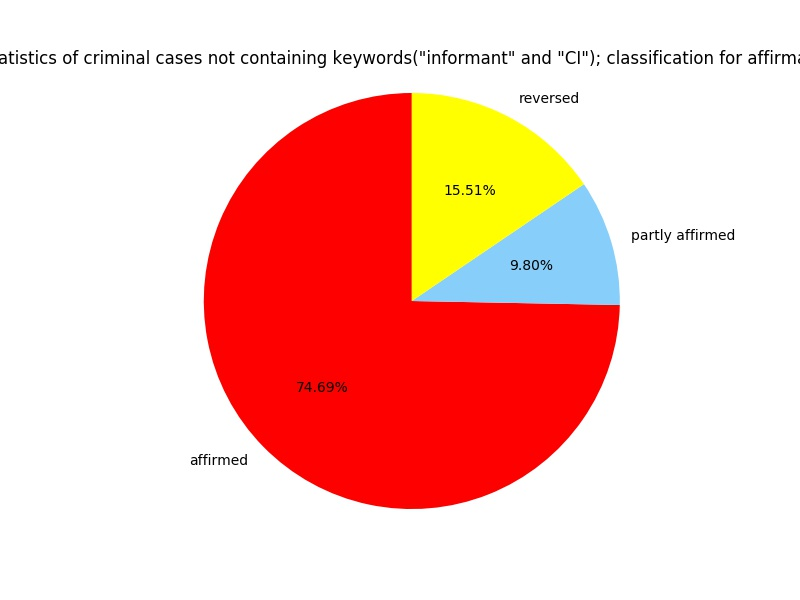
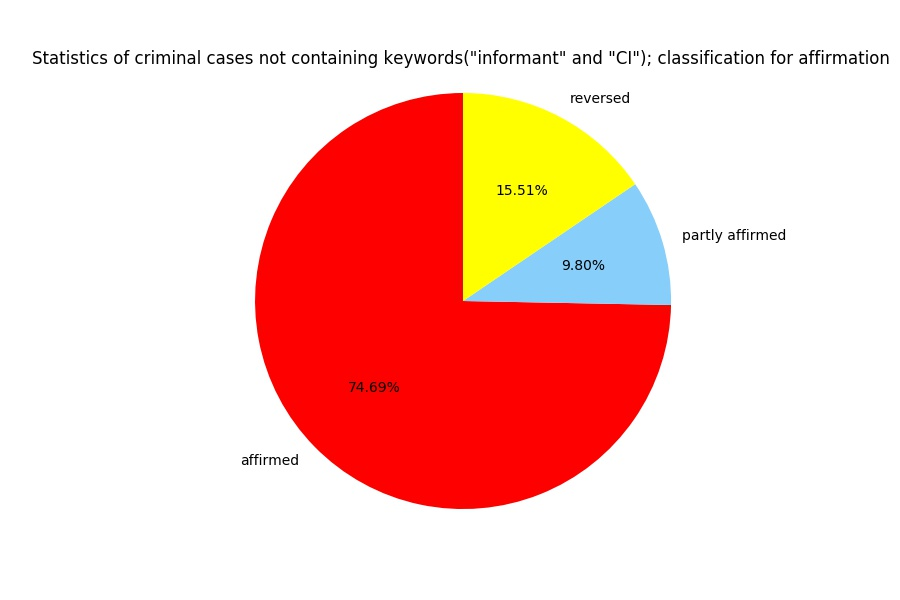
Qitong Wang fixed a small bug, making it more clearly.

diff --git a/src/search_keywords.py b/src/search_keywords.py
@@ -16,7 +16,7 @@ def result_visualization(num_affirmed, num_part, num_reversed, num_remanded, num
         edited by Qitong Wang; Apr 6th, 2020.
     """
     # 1
-    plt.figure(figsize=(8, 6))
+    plt.figure(figsize=(9, 6))
     labels = [u'affirmed', u'partly affirmed', u'reversed']
     sizes = [num_affirmed, num_part, num_reversed]
     colors = ['red', 'lightskyblue', 'yellow']
@@ -33,7 +33,7 @@ def result_visualization(num_affirmed, num_part, num_reversed, num_remanded, num
     plt.axis('equal')
     plt.savefig('pie_pic/KW_affirm.jpg')
     # 2
-    plt.figure(figsize=(8, 6))
+    plt.figure(figsize=(9, 6))
     labels = [u'affirmed', u'partly affirmed', u'reversed']
     sizes = [num_affirmed_noKeywords, num_part_noKeywords, num_reversed_noKeywords]
     colors = ['red', 'lightskyblue', 'yellow']
@@ -50,7 +50,7 @@ def result_visualization(num_affirmed, num_part, num_reversed, num_remanded, num
     plt.axis('equal')
     plt.savefig('pie_pic/NKW_affirm.jpg')
     # 3
-    plt.figure(figsize=(8, 6))
+    plt.figure(figsize=(9, 6))
     labels = [u'remanded', u'not remanded']
     sizes = [num_remanded, num_nonremanded]
     colors = ['yellowgreen', 'cadetblue']
@@ -67,7 +67,7 @@ def result_visualization(num_affirmed, num_part, num_reversed, num_remanded, num
     plt.axis('equal')
     plt.savefig('pie_pic/KW_remand.jpg')
     # 4
-    plt.figure(figsize=(8, 6))
+    plt.figure(figsize=(9, 6))
     labels = [u'remanded', u'not remanded']
     sizes = [num_remanded_noKeywords, num_nonremanded_noKeywords]
     colors = ['yellowgreen', 'cadetblue']
